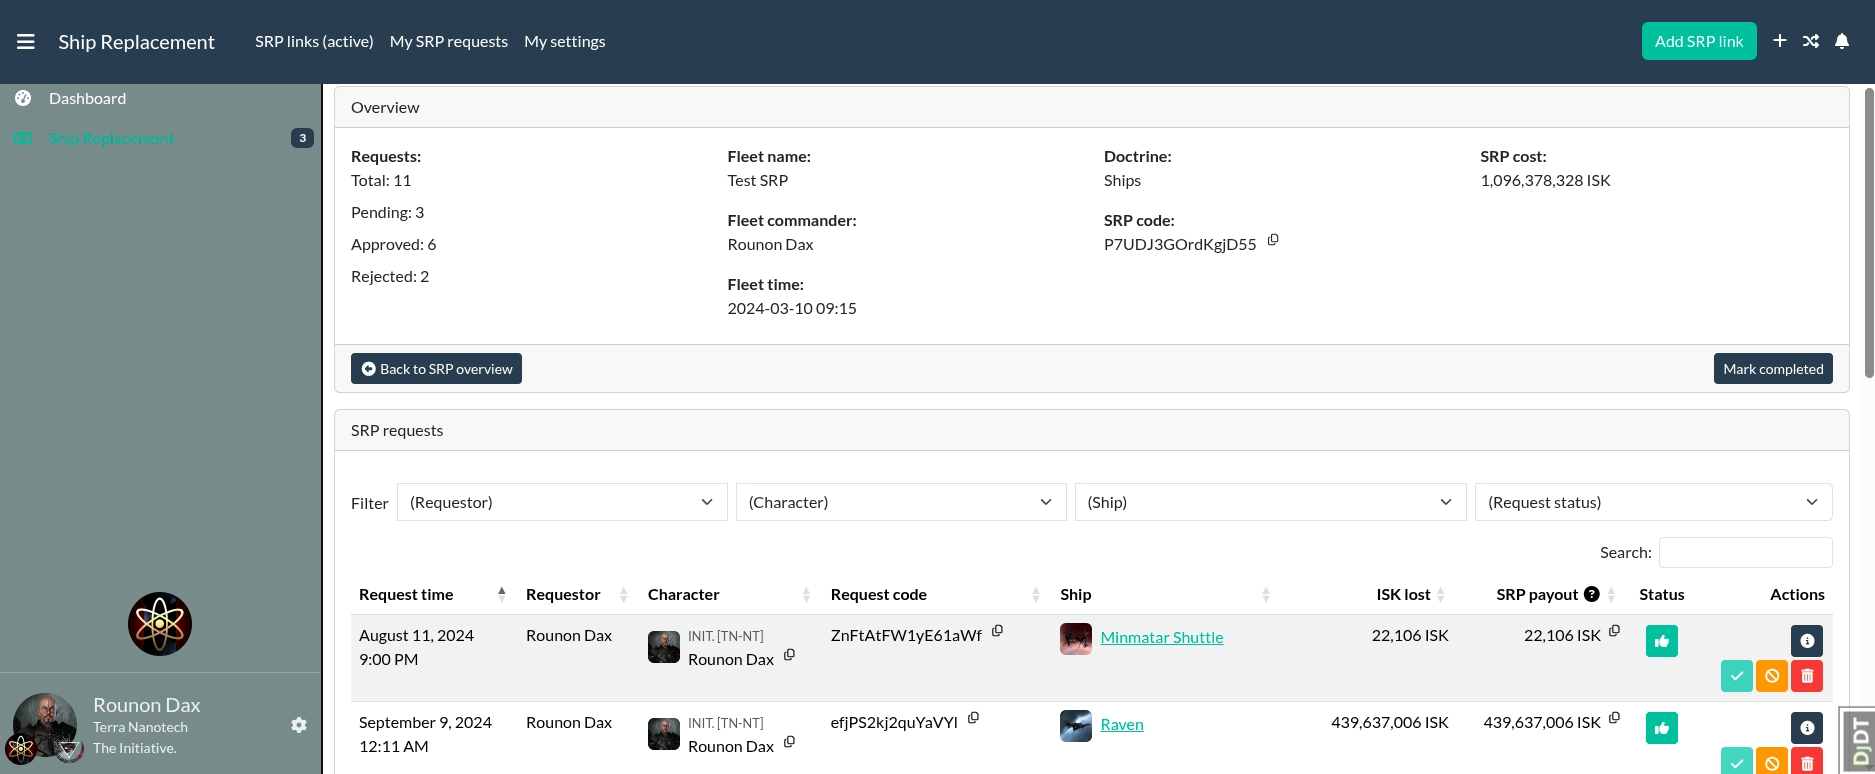
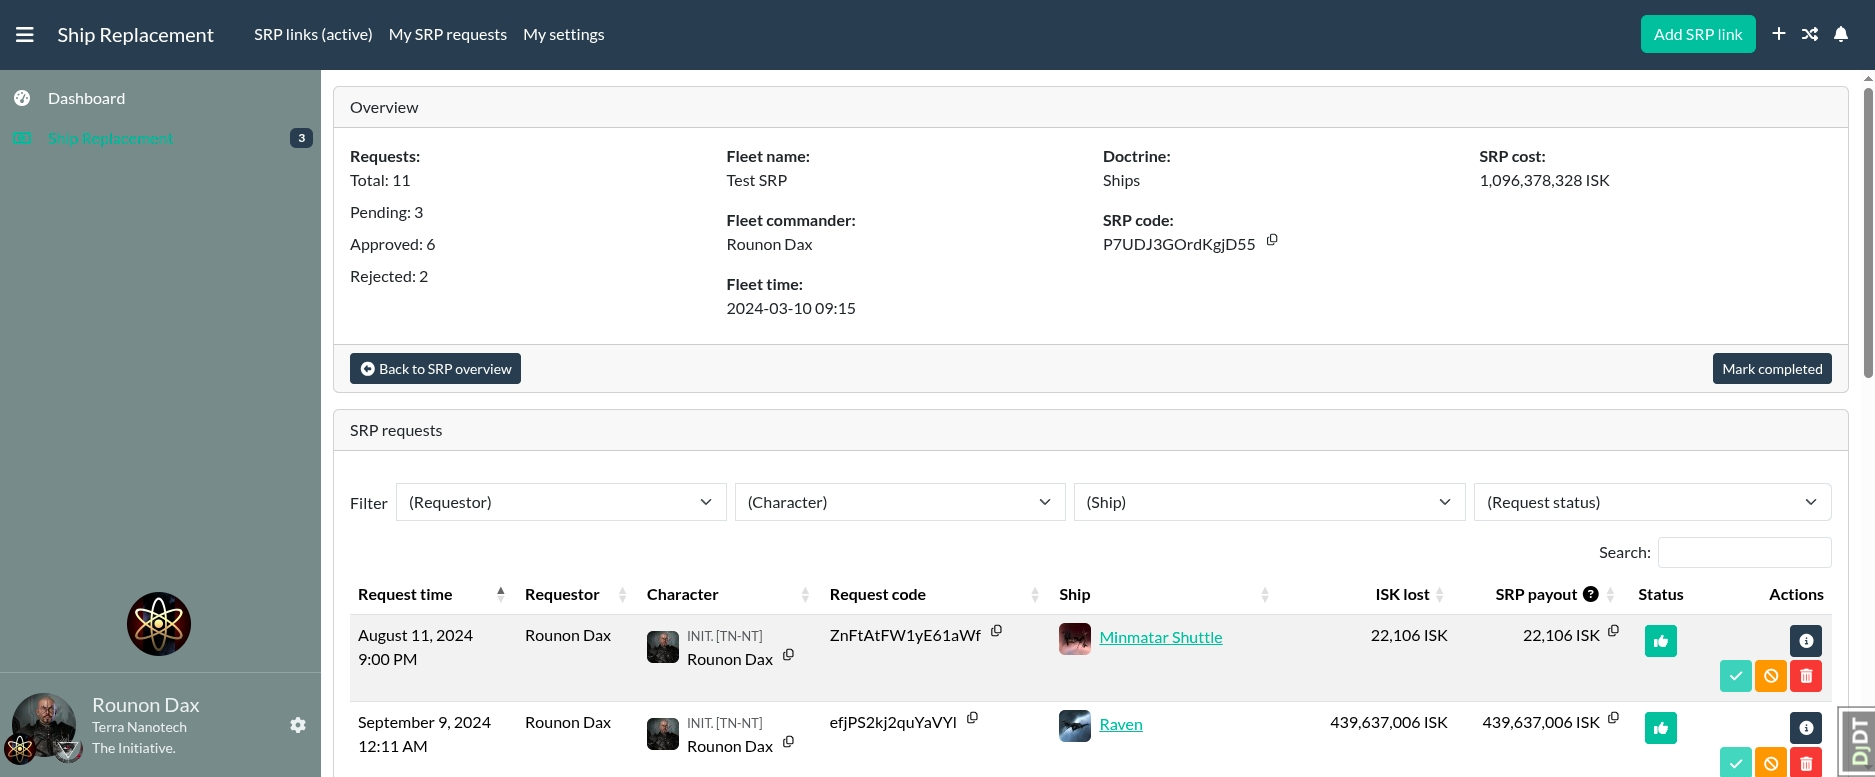
[FIX] Button padding in top nav

diff --git a/aasrp/templates/aasrp/partials/navigation/actions-navigation-item.html b/aasrp/templates/aasrp/partials/navigation/actions-navigation-item.html
@@ -1,5 +1,5 @@
 <li class="nav-item">
-    <a href="{{ url }}" class="nav-link">
+    <a href="{{ url }}" class="nav-link py-lg-0">
         <span class="btn btn-{{ btn_modifier }} d-none d-lg-inline-block">
             {{ title }}
         </span>

diff --git a/CHANGELOG.md b/CHANGELOG.md
@@ -45,6 +45,10 @@ Section Order:
 
 - Copy to clipboard icon for SRP code in the SRP requests overview
 
+### Fixed
+
+- Don't try to translate Discord messages, it's not working
+
 ### Changed
 
 - Request accepted/denied notification format unified
@@ -52,10 +56,6 @@ Section Order:
 - Top navigation templates modularized
 - Ajax calls logic refactored
 - Managers refactored
-
-### Fixed
-
-- Don't try to translate Discord messages, it's not working
 
 ### Removed
 
